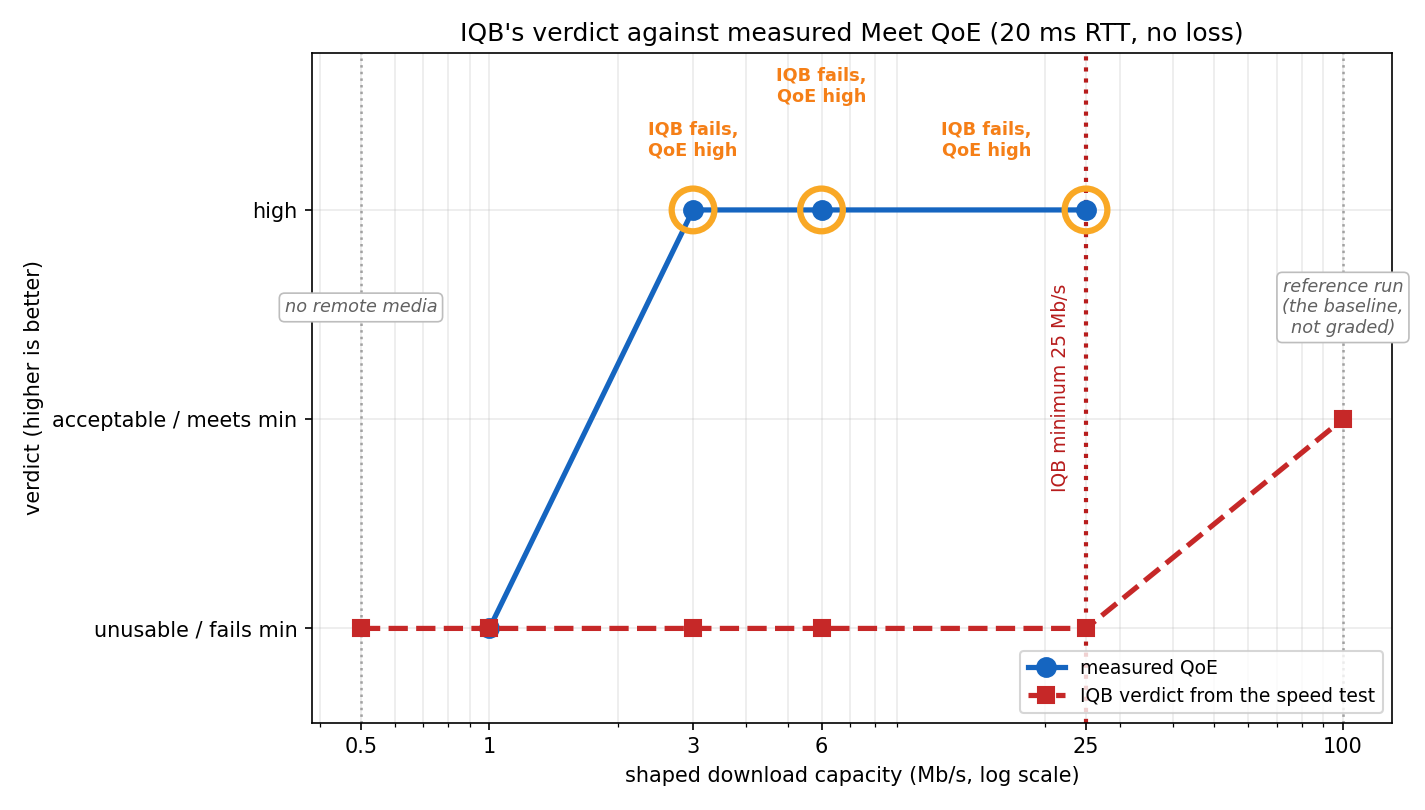
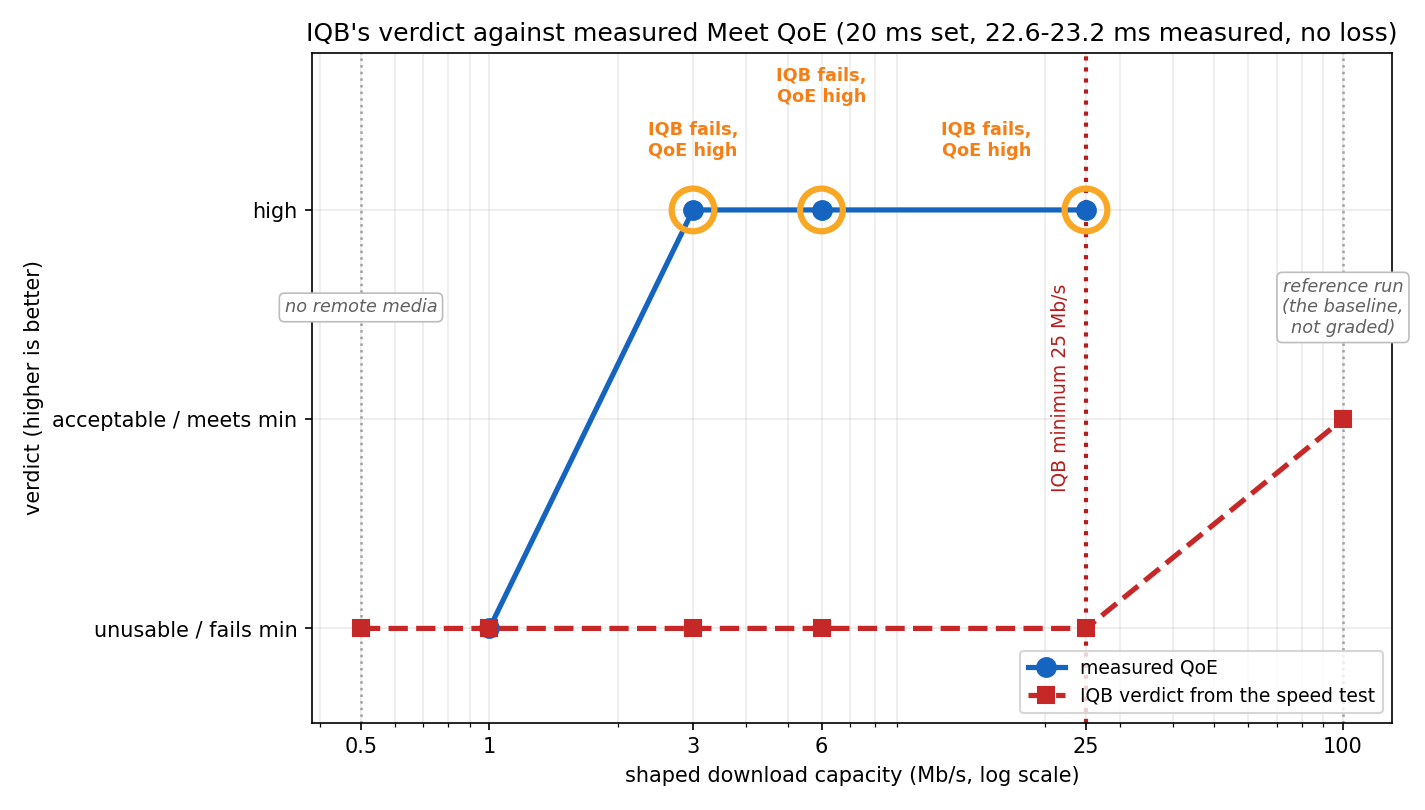
cpuc: report the configured AND the measured RTT, everywhere
Jaber asked for both latencies in every table and on the charts wherever
latency appears, so each table now carries "RTT set" (what the shaper was
told) beside "RTT measured" (ndt_minrtt, what the speed test saw on the
same link), and the chart titles carry the pair rather than the setpoint
alone.

They are not the same number and the difference is the point: 20 ms set
reads 22.6-23.3 ms measured, because netem adds its delay on top of the
real path to the M-Lab server. A chart captioned "20 ms" alone states the
shaper configuration; the measured value is the one a reader can check.

Everything collected so far is at 20 ms, which is IQB s conferencing HIGH
value and below BOTH of IQB s streaming values (100 ms minimum, 50 ms
high). The 50 and 100 ms sweeps are next.

Both reports now key the table by (capacity, configured RTT) rather than
capacity alone. That was safe only while every run was 20 ms: appending a
second latency to the same CSV would otherwise let a 50 ms row silently
overwrite the 20 ms row at the same capacity, and the table would mix two
regimes without saying so. This is a prerequisite for the latency sweeps
landing in these same files.

Changed region(s): [[0.2161, 0.0309, 0.9881, 0.0617]]

diff --git a/experiments/cpuc/report_meet.py b/experiments/cpuc/report_meet.py
@@ -93,7 +93,12 @@ EXPECTED_RATES = (100.0, 25.0, 6.0, 3.0, 1.0, 0.5)
 def build_table(rows):
     apps, ndts = {}, {}
     for r in rows:
-        key = _f(r.get("rate_down"))
+        # Keyed by (capacity, configured RTT). Keying on capacity alone was
+        # safe only while every run was 20 ms; once a second latency is
+        # appended to the same CSV, a 50 ms row would silently overwrite the
+        # 20 ms row at the same capacity and the table would mix regimes
+        # without saying so.
+        key = (_f(r.get("rate_down")), _f(r.get("rtt")))
         valid = r.get("valid") in ("True", "true", "1")
         if r.get("run_type") == "app":
             if valid or key not in apps:
@@ -102,8 +107,9 @@ def build_table(rows):
             if valid or key not in ndts:
                 ndts[key] = r
     out = []
-    for rate in sorted(set(apps) | set(ndts), reverse=True):
-        a, n = apps.get(rate, {}), ndts.get(rate, {})
+    for key in sorted(set(apps) | set(ndts), key=lambda k: (k[1] or 0, -(k[0] or 0))):
+        rate, rtt_cfg = key
+        a, n = apps.get(key, {}), ndts.get(key, {})
         dl, ul, lat = (
             _f(n.get("ndt_down")),
             _f(n.get("ndt_up")),
@@ -113,6 +119,7 @@ def build_table(rows):
         out.append(
             {
                 "rate_mbps_symmetric": rate,
+                "rtt_configured_ms": rtt_cfg,
                 "is_reference": a.get("is_reference") in ("True", "true", "1"),
                 "ndt_down_mbps": dl,
                 "ndt_up_mbps": ul,
@@ -170,6 +177,7 @@ def build_table(rows):
             out.append(
                 {
                     "rate_mbps_symmetric": rate,
+                    "rtt_configured_ms": None,
                     "is_reference": rate == 100.0,
                     "ndt_down_mbps": None,
                     "ndt_up_mbps": None,
@@ -195,21 +203,52 @@ def build_table(rows):
     return out
 
 
+def latency_caption(table) -> str:
+    """ "20 ms set, 22.6-23.3 ms measured" -- both numbers, from the data.
+
+    Jaber asked for the configured and the measured RTT together wherever
+    latency appears. A chart title that says only "20 ms" is a statement
+    about the shaper; what the speed test saw on the same link is the one a
+    reader can check, and the two are not equal (netem adds its delay on top
+    of the real path).
+    """
+    cfg = sorted({r["rtt_configured_ms"] for r in table if r.get("rtt_configured_ms")})
+    meas = [r["ndt_minrtt_ms"] for r in table if r.get("ndt_minrtt_ms")]
+    if not cfg:
+        return "no induced loss"
+    setpart = ", ".join(f"{c:g}" for c in cfg) + " ms set"
+    if not meas:
+        return f"{setpart}, no loss"
+    lo, hi = min(meas), max(meas)
+    span = f"{lo:.1f} ms" if abs(hi - lo) < 0.05 else f"{lo:.1f}-{hi:.1f} ms"
+    return f"{setpart}, {span} measured, no loss"
+
+
 def markdown_table(t):
     hdr = (
-        "| capacity (sym) | NDT down | NDT up | IQB verdict | resolution | fps "
-        "| freezes | Meet demand | QoE |\n"
-        "|---|---|---|---|---|---|---|---|---|\n"
+        "| capacity (sym) | RTT set | RTT measured | NDT down | NDT up "
+        "| IQB verdict | resolution | fps | freezes | Meet demand | QoE |\n"
+        "|---|---|---|---|---|---|---|---|---|---|---|\n"
     )
     lines = []
     for r in t:
         tag = " *(ref)*" if r["is_reference"] else ""
         sus = " ⚠" if r["suspect"] else ""
         lines.append(
-            "| {c:g} Mb/s{tag} | {dl} | {ul} | {v} ({by}) | {res} | {fps} | "
-            "{fz} | {dem} | {q}{sus} |".format(
+            "| {c:g} Mb/s{tag} | {rset} | {rmeas} | {dl} | {ul} | {v} ({by}) "
+            "| {res} | {fps} | {fz} | {dem} | {q}{sus} |".format(
                 c=r["rate_mbps_symmetric"],
                 tag=tag,
+                rset=(
+                    f"{r['rtt_configured_ms']:g} ms"
+                    if r.get("rtt_configured_ms") is not None
+                    else "—"
+                ),
+                rmeas=(
+                    f"{r['ndt_minrtt_ms']:.1f} ms"
+                    if r.get("ndt_minrtt_ms") is not None
+                    else "—"
+                ),
                 dl=(
                     f"{r['ndt_down_mbps']:.2f}"
                     if r["ndt_down_mbps"] is not None
@@ -462,9 +501,7 @@ def plot(table, path):
     h1, l1 = ax1.get_legend_handles_labels()
     h2, l2 = ax2.get_legend_handles_labels()
     ax1.legend(h1 + h2, l1 + l2, loc="lower right", fontsize=9)
-    ax1.set_title(
-        "Google Meet QoE against shaped capacity (20 ms RTT, no induced loss)"
-    )
+    ax1.set_title(f"Google Meet QoE against shaped capacity ({latency_caption(table)})")
     fig.tight_layout()
     fig.savefig(path, dpi=150)
     plt.close(fig)
@@ -505,7 +542,7 @@ def main() -> int:
             BINDING_MIN,
             "rate_mbps_symmetric",
             "iqb_verdict",
-            "IQB's verdict against measured Meet QoE (20 ms RTT, no loss)",
+            f"IQB's verdict against measured Meet QoE ({latency_caption(table)})",
         )
     )
     made.append(

diff --git a/experiments/cpuc/results/iqb_vs_qoe_table.md b/experiments/cpuc/results/iqb_vs_qoe_table.md
@@ -1,8 +1,8 @@
-| capacity (sym) | NDT down | NDT up | IQB verdict | resolution | fps | freezes | Meet demand | QoE |
-|---|---|---|---|---|---|---|---|---|
-| 100 Mb/s *(ref)* | 92.60 | 93.12 | meets minimum only (download) | 720p | 24.0 | 0 (0.00%) | 3.69 | deferred |
-| 25 Mb/s | 23.28 | 23.54 | fails minimum (upload) | 720p | 23.9 | 0 (0.00%) | 2.15 | high ⚠ |
-| 6 Mb/s | 5.66 | 5.72 | fails minimum (download) | 720p | 23.0 | 0 (0.00%) | 1.78 | high ⚠ |
-| 3 Mb/s | 2.85 | 2.86 | fails minimum (download) | 720p | 22.7 | 2 (0.70%) | 1.56 | high ⚠ |
-| 1 Mb/s | 0.96 | 0.96 | fails minimum (download) | 360p | 19.9 | 8 (17.95%) | 0.50 | unusable ⚠ |
-| 0.5 Mb/s | 0.48 | 0.48 | fails minimum (download) | — | — | — | — | no remote media |
+| capacity (sym) | RTT set | RTT measured | NDT down | NDT up | IQB verdict | resolution | fps | freezes | Meet demand | QoE |
+|---|---|---|---|---|---|---|---|---|---|---|
+| 100 Mb/s *(ref)* | 20 ms | 22.6 ms | 92.60 | 93.12 | meets minimum only (download) | 720p | 24.0 | 0 (0.00%) | 3.69 | deferred |
+| 25 Mb/s | 20 ms | 22.6 ms | 23.28 | 23.54 | fails minimum (upload) | 720p | 23.9 | 0 (0.00%) | 2.15 | high ⚠ |
+| 6 Mb/s | 20 ms | 23.2 ms | 5.66 | 5.72 | fails minimum (download) | 720p | 23.0 | 0 (0.00%) | 1.78 | high ⚠ |
+| 3 Mb/s | 20 ms | 22.9 ms | 2.85 | 2.86 | fails minimum (download) | 720p | 22.7 | 2 (0.70%) | 1.56 | high ⚠ |
+| 1 Mb/s | 20 ms | 23.0 ms | 0.96 | 0.96 | fails minimum (download) | 360p | 19.9 | 8 (17.95%) | 0.50 | unusable ⚠ |
+| 0.5 Mb/s | 20 ms | 22.9 ms | 0.48 | 0.48 | fails minimum (download) | — | — | — | — | no remote media |
